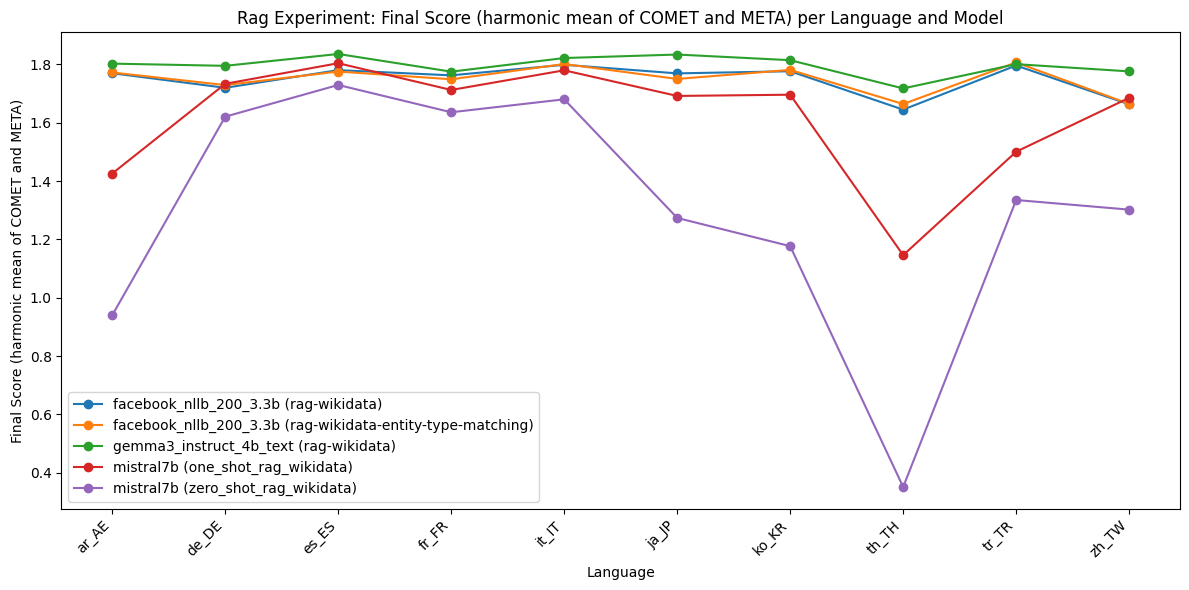
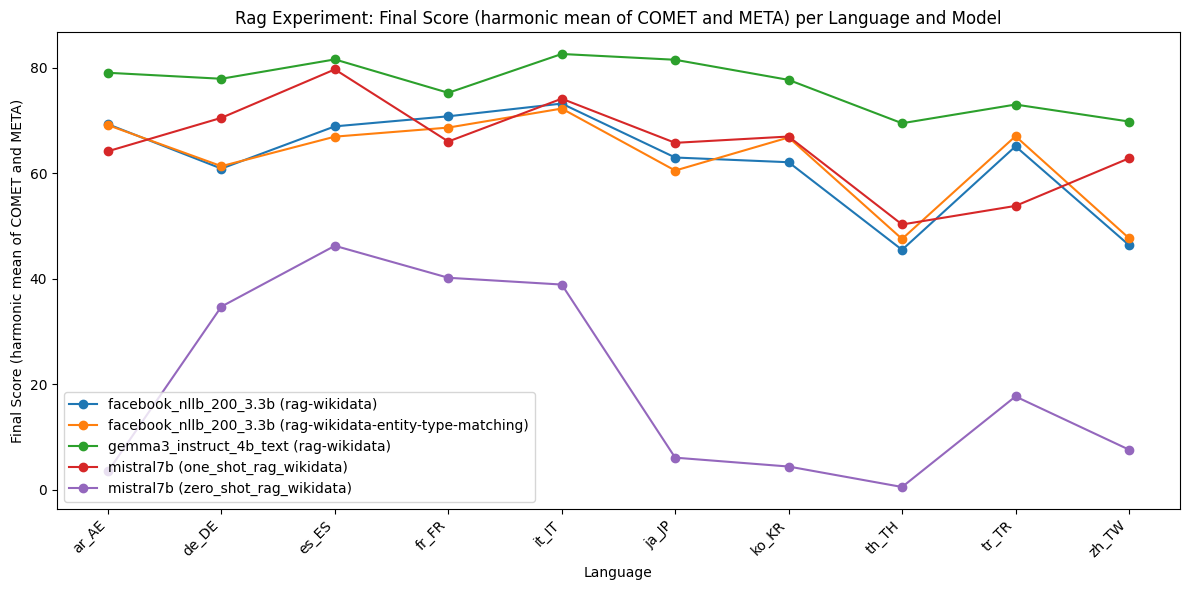
Report updated

diff --git a/Report.md b/Report.md
@@ -37,13 +37,14 @@ The following prompt template is used for each translation task:
 | Model                                   | ar_AE    | de_DE    | es_ES    | fr_FR    | it_IT    | ja_JP    | ko_KR    | th_TH    | tr_TR    | zh_TW    |
 |------------------------------------------|----------|----------|----------|----------|----------|----------|----------|----------|----------|----------|
 | facebook_nllb_200_3.3b (zero_shot)      | 0.894012 | 0.887837 | 0.914690 | 0.886039 | 0.901158 | 0.877546 | 0.909104 | 0.796988 | 0.908409 | 0.842765 |
-| gemini-2.0-flash (zero-shot-1)          | 0.907877 | 0.904798 | 0.924312 | 0.905125 | 0.912862 |    NA    |    NA    |    NA    |    NA    |    NA    |
-| gemini-2.0-flash (zero-shot-2)          | 0.895801 | 0.902184 | 0.923279 | 0.881997 | 0.915130 |    NA    |    NA    |    NA    |    NA    |    NA    |
+| gemini-2.0-flash (zero-shot-1)          | 0.907877 | 0.904798 | 0.924312 | 0.905125 | 0.912862 | NA       | NA       | NA       | NA       | NA       |
+| gemini-2.0-flash (zero-shot-2)          | 0.895801 | 0.902184 | 0.923279 | 0.881997 | 0.915130 | NA       | NA       | NA       | NA       | NA       |
 | gemma3_instruct_4b_text (zero-shot)     | 0.870702 | 0.871655 | 0.911657 | 0.875383 | 0.889993 | 0.890555 | 0.897712 | 0.807715 | 0.888256 | 0.880877 |
 | gpt-4o (zero-shot-1)                    | 0.908606 | 0.897374 | 0.922383 | 0.900818 | 0.914007 | 0.936411 | 0.934396 | 0.829915 | 0.926527 | 0.922842 |
 | gpt-4o (zero-shot-2)                    | 0.885450 | 0.897071 | 0.920620 | 0.896157 | 0.910552 | 0.932317 | 0.927710 | 0.818079 | 0.925739 | 0.921094 |
 | llama3.1_8b (zero_shot)                 | 0.814061 | 0.857946 | 0.901855 | 0.860470 | 0.879568 | 0.851725 | 0.844446 | 0.721428 | 0.842651 | 0.824786 |
 | llama3.1_8b (zero_shot_longer_prompt)   | 0.732168 | 0.794364 | 0.884256 | 0.821433 | 0.847478 | 0.766446 | 0.786775 | 0.708514 | 0.805609 | 0.760198 |
+| mistral7b (zero_shot)                   | 0.629800 | 0.845888 | 0.888324 | 0.845279 | 0.869485 | 0.788799 | 0.790001 | 0.470967 | 0.724187 | 0.766358 |
 
 
 ![alt text](images/zeroshot-experiment-comet-score-per-language-and-model.png)
@@ -60,32 +61,35 @@ The following prompt template is used for each translation task:
 | gpt-4o (zero-shot-2)                    | 27.700831 | 37.756498 | 48.579161 | 39.088398 | 46.438356 | 44.398340 | 43.489933 | 12.816901 | 37.295082 | 35.734072 |
 | llama3.1_8b (zero_shot)                 | 10.941828 | 23.255814 | 33.288227 | 28.867403 | 30.273973 | 11.618257 | 11.409396 | 3.239437  | 12.841530 | 11.218837 |
 | llama3.1_8b (zero_shot_longer_prompt)   | 10.249307 | 22.708618 | 32.882273 | 25.828729 | 29.452055 | 9.128631  | 6.979866  | 3.380282  | 14.480874 | 9.279778  |
+| mistral7b (zero_shot)                   | 1.939058  | 21.751026 | 32.341001 | 27.071823 | 25.753425 | 2.074689  | 3.221477  | 0.563380  | 10.519126 | 3.601108  |
 
 
 ![alt text](images/zeroshot-experiment-meta-score-per-language-and-model.png)
 
-### Final Score (Harmonic Mean of COMET and META)
+#### Final Score (Harmonic Mean of COMET and META)
 
-| Model                                   | ar_AE    | de_DE    | es_ES    | fr_FR    | it_IT    | ja_JP    | ko_KR    | th_TH    | tr_TR    | zh_TW    |
-|------------------------------------------|----------|----------|----------|----------|----------|----------|----------|----------|----------|----------|
-| facebook_nllb_200_3.3b (zero_shot)      | 1.734949 | 1.717905 | 1.789201 | 1.727571 | 1.760357 | 1.601170 | 1.756566 | 1.366542 | 1.754752 | 1.259698 |
-| gemini-2.0-flash (zero-shot-1)          | 1.773780 | 1.773719 | 1.816884 | 1.776792 | 1.792177 | NA       | NA       | NA       | NA       | NA       |
-| gemini-2.0-flash (zero-shot-2)          | 1.751294 | 1.766421 | 1.815281 | 1.729587 | 1.796732 | NA       | NA       | NA       | NA       | NA       |
-| gemma3_instruct_4b_text (zero-shot)     | 1.662241 | 1.684962 | 1.776737 | 1.697507 | 1.729375 | 1.691822 | 1.723816 | 1.356183 | 1.691891 | 1.651211 |
-| gpt-4o (zero-shot-1)                    | 1.773950 | 1.752784 | 1.811571 | 1.763552 | 1.794008 | 1.833781 | 1.833723 | 1.565691 | 1.809230 | 1.800583 |
-| gpt-4o (zero-shot-2)                    | 1.716047 | 1.752504 | 1.806996 | 1.752143 | 1.786082 | 1.826284 | 1.816668 | 1.537991 | 1.806634 | 1.795895 |
-| llama3.1_8b (zero_shot)                 | 1.515378 | 1.654842 | 1.756131 | 1.671127 | 1.709471 | 1.587101 | 1.572505 | 1.180055 | 1.581523 | 1.536603 |
-| llama3.1_8b (zero_shot_longer_prompt)   | 1.366705 | 1.535031 | 1.722199 | 1.592229 | 1.647548 | 1.414159 | 1.414146 | 1.171483 | 1.526305 | 1.405275 |
+| Model                                   | ar_AE     | de_DE     | es_ES     | fr_FR     | it_IT     | ja_JP     | ko_KR     | th_TH     | tr_TR     | zh_TW     |
+|------------------------------------------|-----------|-----------|-----------|-----------|-----------|-----------|-----------|-----------|-----------|-----------|
+| facebook_nllb_200_3.3b (zero_shot)      | 44.049426 | 40.700888 | 56.363182 | 49.550955 | 53.267833 | 16.537007 | 40.321868 | 9.034616  | 40.044505 | 4.842887  |
+| gemini-2.0-flash (zero-shot-1)          | 53.937889 | 59.867809 | 67.296760 | 62.788841 | 63.572439 | NA        | NA        | NA        | NA        | NA        |
+| gemini-2.0-flash (zero-shot-2)          | 54.263570 | 57.314320 | 67.813669 | 59.010233 | 63.860078 | NA        | NA        | NA        | NA        | NA        |
+| gemma3_instruct_4b_text (zero-shot)     | 30.219720 | 39.061978 | 50.347520 | 42.314470 | 45.332022 | 28.372316 | 34.835482 | 8.030604  | 29.600815 | 22.895785 |
+| gpt-4o (zero-shot-1)                    | 52.845711 | 52.878629 | 65.131571 | 57.021441 | 63.132370 | 59.853501 | 64.166037 | 23.669087 | 54.147930 | 52.660760 |
+| gpt-4o (zero-shot-2)                    | 42.199710 | 53.144993 | 63.598659 | 54.433909 | 61.507654 | 60.151583 | 59.218805 | 22.161712 | 53.169758 | 51.491772 |
+| llama3.1_8b (zero_shot)                 | 19.290774 | 36.592677 | 48.627592 | 43.231367 | 45.044146 | 20.447324 | 20.102696 | 6.200453  | 22.286691 | 19.751103 |
+| llama3.1_8b (zero_shot_longer_prompt)   | 17.981467 | 35.320189 | 47.938104 | 39.300127 | 43.712785 | 16.314188 | 12.822210 | 6.452708  | 24.549041 | 16.540454 |
+| mistral7b (zero_shot)                   | 3.762282  | 34.604028 | 47.418470 | 41.009504 | 39.737065 | 4.043038  | 6.190515  | 1.113441  | 18.369939 | 6.878974  |
+
 
 ![Final Score Chart](images/zeroshot-experiment-final-score-(harmonic-mean-of-comet-and-meta)-per-language-and-model.png)
 
-#### Observations
+### Observations
 
-- **COMET Scores:** `gpt-4o` and `gemini-2.0-flash` consistently achieve the highest COMET scores across high-resource languages, indicating strong adequacy and fluency. `facebook_nllb_200_3.3b` is robust and covers all languages, but is slightly behind the top models. `gemma3_instruct_4b_text` and `llama3.1_8b` lag behind, especially in low-resource and Asian languages.
-- **META Scores:** `gemini-2.0-flash` and `gpt-4o` again lead in META scores for high-resource languages, with `facebook_nllb_200_3.3b` providing broad but lower coverage. META scores for `llama3.1_8b` and `gemma3_instruct_4b_text` are notably lower, especially for Asian and low-resource languages, highlighting adequacy challenges.
+- **COMET Scores:** `gpt-4o` and `gemini-2.0-flash` consistently achieve the highest COMET scores for high-resource languages, indicating strong fluency and adequacy. `facebook_nllb_200_3.3b` is robust and covers all languages, but is slightly behind the top models. `gemma3_instruct_4b_text` and `llama3.1_8b` lag behind, especially in low-resource and Asian languages, with `mistral7b` showing the lowest scores in these settings.
+- **META Scores:** `gemini-2.0-flash` and `gpt-4o` again lead in META scores for high-resource languages, with `facebook_nllb_200_3.3b` providing broad but lower coverage. META scores for `llama3.1_8b`, `gemma3_instruct_4b_text`, and `mistral7b` are notably lower, especially for Asian and low-resource languages, highlighting adequacy challenges.
 - **Final Score:** The harmonic mean of COMET and META confirms that `gpt-4o` and `gemini-2.0-flash` are the most consistent top performers for high-resource languages. `facebook_nllb_200_3.3b` is a strong baseline for broad coverage, but the largest performance gaps are seen in low-resource and Asian languages, where adequacy (META) is a limiting factor.
 
-#### Conclusion
+### Conclusion
 
 - The combined metrics show that `gpt-4o` and `gemini-2.0-flash` are the best-performing models in the zero-shot setting, especially for high-resource languages. `facebook_nllb_200_3.3b` remains a reliable baseline for broad language coverage. The Final Score metric provides a holistic view, emphasizing the importance of both adequacy and fluency, and highlights the need for further improvement in low-resource and Asian languages.
 
@@ -103,7 +107,7 @@ In these experiments, we use an LLM model to first detect named entities in the 
 
 ![alt text](images/ner-lookup-gemma.png)
 
-### Prompt Template for NER Detection
+##### Prompt Template for NER Detection
 The following prompt template is used for each entity extraction task:
 
 ```
@@ -117,7 +121,7 @@ The following prompt template is used for each entity extraction task:
 ```
 - `{text}` is the source sentence from which to extract named entities.
 
-### Prompt Template for NER Translation Augmented Generation
+##### Prompt Template for NER Translation Augmented Generation
 The following prompt template is used for each translation task:
 
 ```
@@ -135,7 +139,7 @@ The following prompt template is used for each translation task:
 - `{entity_list}` is a list of entity mappings in the form `original → translation` (one per line).
 - `{text}` is replaced with the source sentence to be translated.
 
-### Model Used
+#### Model Used
 - **Model:** `gemma3_instruct_4b_text` (Gemma3 4B Text, loaded via Keras Hub)
 - **Entity Extraction:** The model is used to extract named entities from the source sentence.
 - **Wikidata Lookup:** Entity translations are retrieved from Wikidata and cached for efficiency.
@@ -168,31 +172,32 @@ The following prompt template is used for each translation task:
 
 ![alt text](images/rag-experiment-meta-score-per-language-and-model.png)
 
-### Final Score (Harmonic Mean of COMET and META)
+#### Final Score (Harmonic Mean of COMET and META)
 
-| Model                                              | ar_AE    | de_DE    | es_ES    | fr_FR    | it_IT    | ja_JP    | ko_KR    | th_TH    | tr_TR    | zh_TW    |
-|----------------------------------------------------|----------|----------|----------|----------|----------|----------|----------|----------|----------|----------|
-| facebook_nllb_200_3.3b (rag-wikidata)              | 1.769955 | 1.719985 | 1.780599 | 1.762738 | 1.798918 | 1.769457 | 1.776777 | 1.645162 | 1.796439 | 1.663220 |
-| facebook_nllb_200_3.3b (rag-wikidata-entity-type)  | 1.772485 | 1.729328 | 1.775830 | 1.749289 | 1.801507 | 1.750372 | 1.781395 | 1.664365 | 1.807034 | 1.664695 |
-| gemma3_instruct_4b_text (rag-wikidata)             | 1.802910 | 1.795359 | 1.835977 | 1.775366 | 1.822070 | 1.834058 | 1.814737 | 1.717870 | 1.801070 | 1.776337 |
-| mistral7b (one_shot_rag_wikidata)                  | 1.426025 | 1.733629 | 1.804350 | 1.712604 | 1.779998 | 1.692108 | 1.696306 | 1.146089 | 1.500816 | 1.685619 |
-| mistral7b (zero_shot_rag_wikidata)                 | 0.939998 | 1.621023 | 1.729727 | 1.636106 | 1.680502 | 1.273685 | 1.176889 | 0.350972 | 1.335186 | 1.302176 |
+| Model                                         | ar_AE     | de_DE     | es_ES     | fr_FR     | it_IT     | ja_JP     | ko_KR     | th_TH     | tr_TR     | zh_TW     |
+|-----------------------------------------------|-----------|-----------|-----------|-----------|-----------|-----------|-----------|-----------|-----------|-----------|
+| facebook_nllb_200_3.3b (rag-wikidata)         | 69.295540 | 60.881706 | 68.887357 | 70.794698 | 73.201546 | 62.985230 | 62.093556 | 45.493542 | 65.106113 | 46.401284 |
+| facebook_nllb_200_3.3b (rag-wikidata-entity-type) | 69.126462 | 61.344644 | 66.938052 | 68.655398 | 72.260843 | 60.513253 | 66.785325 | 47.556711 | 67.019743 | 47.708413 |
+| gemma3_instruct_4b_text (rag-wikidata)        | 79.040408 | 77.906621 | 81.574701 | 75.242658 | 82.600971 | 81.504598 | 77.692728 | 69.477671 | 73.020798 | 69.807136 |
+| mistral7b (one_shot_rag_wikidata)             | 64.172478 | 70.505711 | 79.681779 | 66.016922 | 74.126057 | 65.765670 | 66.962341 | 50.295566 | 53.815175 | 62.831838 |
+| mistral7b (zero_shot_rag_wikidata)            | 3.501968  | 34.741212 | 46.259945 | 40.200318 | 38.915798 | 6.117951  | 4.436096  | 0.559991  | 17.713394 | 7.638405  |
 
 ![Final Score Chart](images/rag-experiment-final-score-(harmonic-mean-of-comet-and-meta)-per-language-and-model.png)
 
-#### Observations
+### Observations
 
 - **COMET Scores:** `gemma3_instruct_4b_text (rag-wikidata)` achieves the highest COMET scores across nearly all languages, demonstrating the benefit of entity-aware augmentation. `facebook_nllb_200_3.3b` (both RAG variants) is strong and consistent, while `mistral7b` is competitive in some European languages but weaker elsewhere.
 - **META Scores:** The META scores show a substantial advantage for `gemma3_instruct_4b_text (rag-wikidata)`, especially in adequacy-heavy languages. `facebook_nllb_200_3.3b` is consistent, but `mistral7b` and its zero-shot RAG variant perform poorly in low-resource and Asian languages.
 - **Final Score:** The harmonic mean highlights the superior performance of `gemma3_instruct_4b_text (rag-wikidata)` in both adequacy and fluency, with the largest gains in languages with complex named entities. The RAG approach is especially effective for adequacy (META) in these settings.
 
-#### Conclusions
+### Conclusion
 
 - The RAG Wikidata approach with `gemma3_instruct_4b_text` delivers state-of-the-art performance, especially in adequacy and entity handling, as reflected in the Final Score. Entity-aware translation using Wikidata lookups is highly effective, particularly for languages and settings where entity translation is challenging. The combined metrics confirm the robustness of the RAG approach for named-entity-rich content.
 
 ## Few Shot Prompting
 
-### COMET Scores
+### Evaluations
+#### COMET Scores
 
 | Model                                    | ar_AE    | de_DE    | es_ES    | fr_FR    | it_IT    | ja_JP    | ko_KR    | th_TH    | tr_TR    | zh_TW    |
 |------------------------------------------|----------|----------|----------|----------|----------|----------|----------|----------|----------|----------|
@@ -205,7 +210,7 @@ The following prompt template is used for each translation task:
 
 ![COMET Score Chart](images/fewshot-experiment-comet-score-per-language-and-model.png)
 
-### META Scores
+#### META Scores
 
 | Model                                    | ar_AE     | de_DE     | es_ES     | fr_FR     | it_IT     | ja_JP     | ko_KR     | th_TH     | tr_TR     | zh_TW     |
 |------------------------------------------|-----------|-----------|-----------|-----------|-----------|-----------|-----------|-----------|-----------|-----------|
@@ -217,30 +222,32 @@ The following prompt template is used for each translation task:
 
 ![META Score Chart](images/fewshot-experiment-meta-score-per-language-and-model.png)
 
-### Final Score (Harmonic Mean of COMET and META)
+#### Final Score (Harmonic Mean of COMET and META)
 
-| Model                                 | ar_AE    | de_DE    | es_ES    | fr_FR    | it_IT    | ja_JP    | ko_KR    | th_TH    | tr_TR    | zh_TW    |
-|----------------------------------------|----------|----------|----------|----------|----------|----------|----------|----------|----------|----------|
-| gemini-2.0-flash (few-shot)            | 1.769297 | 1.769300 | 1.815535 | 1.761925 | 1.799052 | NA       | NA       | NA       | NA       | NA       |
-| gpt-4o (few-shot)                      | 1.778987 | 1.759932 | 1.821741 | 1.760286 | 1.795133 | 0.0      | 0.0      | 0.0      | 0.0      | 0.0      |
-| llama3.1_8b (few(3)_shot)              | 1.406182 | 1.577941 | 1.740225 | 1.579732 | 1.631677 | 1.495471 | 1.452717 | 1.056466 | 1.548417 | 1.504323 |
-| llama3.1_8b (few(3)_shot_longer_prompt)| 0.408137 | 1.506990 | 1.751557 | 1.531361 | 1.578853 | 1.298654 | 1.132594 | 1.053421 | 1.535046 | 1.396311 |
-| llama3.1_8b (one_shot_longer_prompt)   | 1.447787 | 1.518163 | 1.736858 | 1.483402 | 1.513363 | 1.200056 | 1.138314 | 1.008829 | 1.488529 | 1.438758 |
+| Model                                   | ar_AE     | de_DE     | es_ES     | fr_FR     | it_IT     | ja_JP     | ko_KR     | th_TH     | tr_TR     | zh_TW     |
+|------------------------------------------|-----------|-----------|-----------|-----------|-----------|-----------|-----------|-----------|-----------|-----------|
+| gemini-2.0-flash (few-shot)              | 55.498824 | 61.134313 | 67.494450 | 58.765624 | 64.004333 | NA        | NA        | NA        | NA        | NA        |
+| gpt-4o (few-shot)                        | 55.857747 | 57.245838 | 69.074640 | 56.731493 | 64.525220 | 0.0       | 0.0       | 0.0       | 0.0       | 0.0       |
+| llama3.1_8b (few(3)_shot)                | 17.191829 | 35.042899 | 48.646881 | 40.471658 | 45.357304 | 22.341512 | 16.362523 | 4.884827  | 26.718367 | 20.536668 |
+| llama3.1_8b (few(3)_shot_longer_prompt)  | 0.552043  | 32.340855 | 49.019202 | 36.217034 | 42.774302 | 11.463909 | 8.059870  | 4.624744  | 23.590630 | 18.454703 |
+| llama3.1_8b (one_shot_longer_prompt)     | 18.114945 | 29.412276 | 46.750345 | 37.209344 | 37.789757 | 7.835275  | 8.760464  | 4.094795  | 24.256176 | 18.314200 |
 
 
 ![Final Score Chart](images/fewshot-experiment-final-score-(harmonic-mean-of-comet-and-meta)-per-language-and-model.png)
 
-#### Observations
-- **COMET Scores:** `gpt-4o` and `gemini-2.0-flash` achieve the highest COMET scores in the few-shot setting for high-resource languages. `llama3.1_8b` lags behind, especially in low-resource and Asian languages.
-- **META Scores:** `gpt-4o` and `gemini-2.0-flash` again lead in META scores for high-resource languages, but `gpt-4o` shows a sharp drop in META for Asian languages, indicating a challenge in adequacy. `llama3.1_8b` and its variants have the lowest META scores, especially for low-resource languages.
+### Observations
+- **COMET Scores:** In the few-shot setting, `gpt-4o` and `gemini-2.0-flash` achieve the highest COMET scores for high-resource languages. `llama3.1_8b` and its variants lag behind, especially in low-resource and Asian languages.
+- **META Scores:** `gpt-4o` and `gemini-2.0-flash` again lead in META scores for high-resource languages, but all models show a sharp drop in META for Asian and low-resource languages, indicating persistent adequacy challenges. `llama3.1_8b` and its variants have the lowest META scores in these settings.
 - **Final Score:** The harmonic mean confirms that `gpt-4o` and `gemini-2.0-flash` are the best in the few-shot setting for high-resource languages, but all models struggle with adequacy in low-resource and Asian languages, as seen in the lower Final Scores.
 
-#### Conclusion
+### Conclusion
 - `gpt-4o` and `gemini-2.0-flash` are the best-performing models in the few-shot setting for high-resource languages. However, adequacy remains a challenge for all models in low-resource and Asian languages. The Final Score metric highlights the need for further improvements in these settings, and the importance of both adequacy and fluency in evaluation.
 
 ## Chain-of-Thought (CoT) Prompting
 
-### COMET Scores
+### Evaluations
+
+#### COMET Scores
 
 | Model                      | ar_AE    | de_DE    | es_ES    | fr_FR    | it_IT    | ja_JP   | ko_KR   | th_TH   | tr_TR   | zh_TW   |
 |----------------------------|----------|----------|----------|----------|----------|---------|---------|---------|---------|---------|
@@ -250,7 +257,7 @@ The following prompt template is used for each translation task:
 
 ![COMET Score Chart](images/cot-experiment-comet-score-per-language-and-model.png)
 
-### META Scores
+#### META Scores
 
 | Model                   | ar_AE     | de_DE     | es_ES     | fr_FR     | it_IT     | ja_JP | ko_KR | th_TH | tr_TR | zh_TW |
 |-------------------------|-----------|-----------|-----------|-----------|-----------|-------|-------|-------|-------|-------|
@@ -259,20 +266,21 @@ The following prompt template is used for each translation task:
 
 ![META Score Chart](images/cot-experiment-meta-score-per-language-and-model.png)
 
-### Final Score (Harmonic Mean of COMET and META)
+#### Final Score (Harmonic Mean of COMET and META)
 
-| Model                    | ar_AE    | de_DE    | es_ES    | fr_FR    | it_IT    | ja_JP    | ko_KR    | th_TH    | tr_TR    | zh_TW    |
-|--------------------------|----------|----------|----------|----------|----------|----------|----------|----------|----------|----------|
-| gemini-2.0-flash (cot)   | 1.754031 | 1.764004 | 1.811874 | 1.766501 | 1.781647 | NA       | NA       | NA       | NA       | NA       |
-| gpt-4o (cot)             | 1.733469 | 1.758553 | 1.814425 | 1.759631 | 1.789419 | 1.826608 | 1.833847 | 1.578139 | 1.799872 | 1.807458 |
+| Model                   | ar_AE     | de_DE     | es_ES     | fr_FR     | it_IT     | ja_JP     | ko_KR     | th_TH     | tr_TR     | zh_TW     |
+|-------------------------|-----------|-----------|-----------|-----------|-----------|-----------|-----------|-----------|-----------|-----------|
+| gemini-2.0-flash (cot)  | 52.117080 | 57.540323 | 66.246248 | 60.045059 | 57.527002 | NA        | NA        | NA        | NA        | NA        |
+| gpt-4o (cot)            | 46.633574 | 55.573632 | 67.479098 | 57.361904 | 62.492386 | 59.013404 | 63.127145 | 24.919108 | 52.698286 | 54.655084 |
+
 
 
 ![Final Score Chart](images/cot-experiment-final-score-(harmonic-mean-of-comet-and-meta)-per-language-and-model.png)
 
-#### Observations
+### Observations
 - **COMET Scores:** In the CoT setting, `gpt-4o` and `gemini-2.0-flash` achieve the highest COMET scores for high-resource languages. `gpt-4o` also performs well in Asian languages, but there is a notable drop in adequacy (META) for some languages.
 - **META Scores:** `gpt-4o` and `gemini-2.0-flash` lead in META scores for high-resource languages, but all models show lower META scores for low-resource and Asian languages, indicating persistent adequacy challenges.
 - **Final Score:** The harmonic mean shows that `gpt-4o` and `gemini-2.0-flash` are the most robust in the CoT setting for high-resource languages, but adequacy remains a limiting factor for all models in more challenging languages.
 
-#### Conclusion
+### Conclusion
 - `gpt-4o` and `gemini-2.0-flash` are the top models in the CoT setting for high-resource languages, but all models face challenges in adequacy for low-resource and Asian languages. The Final Score metric underscores the need for further research and model improvements to address these gaps, and demonstrates the value of using both adequacy and fluency metrics for comprehensive evaluation.
